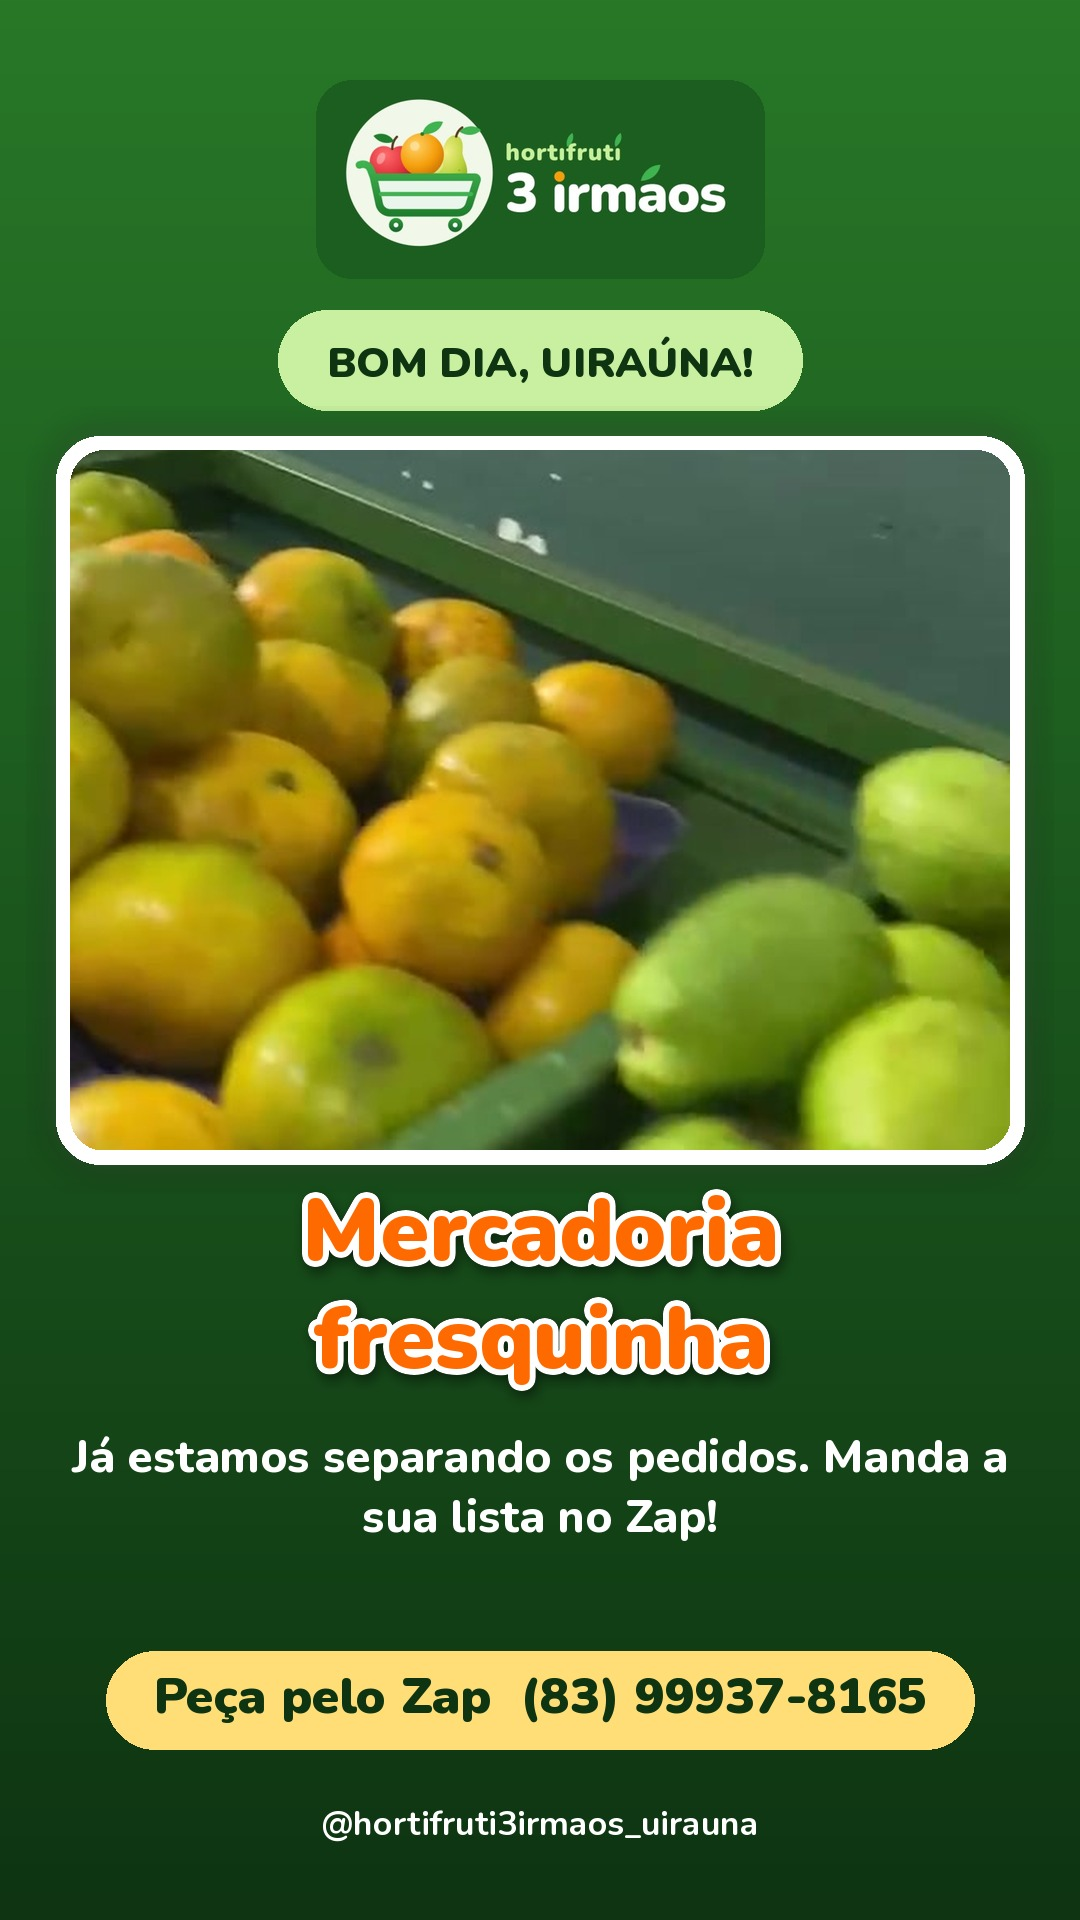
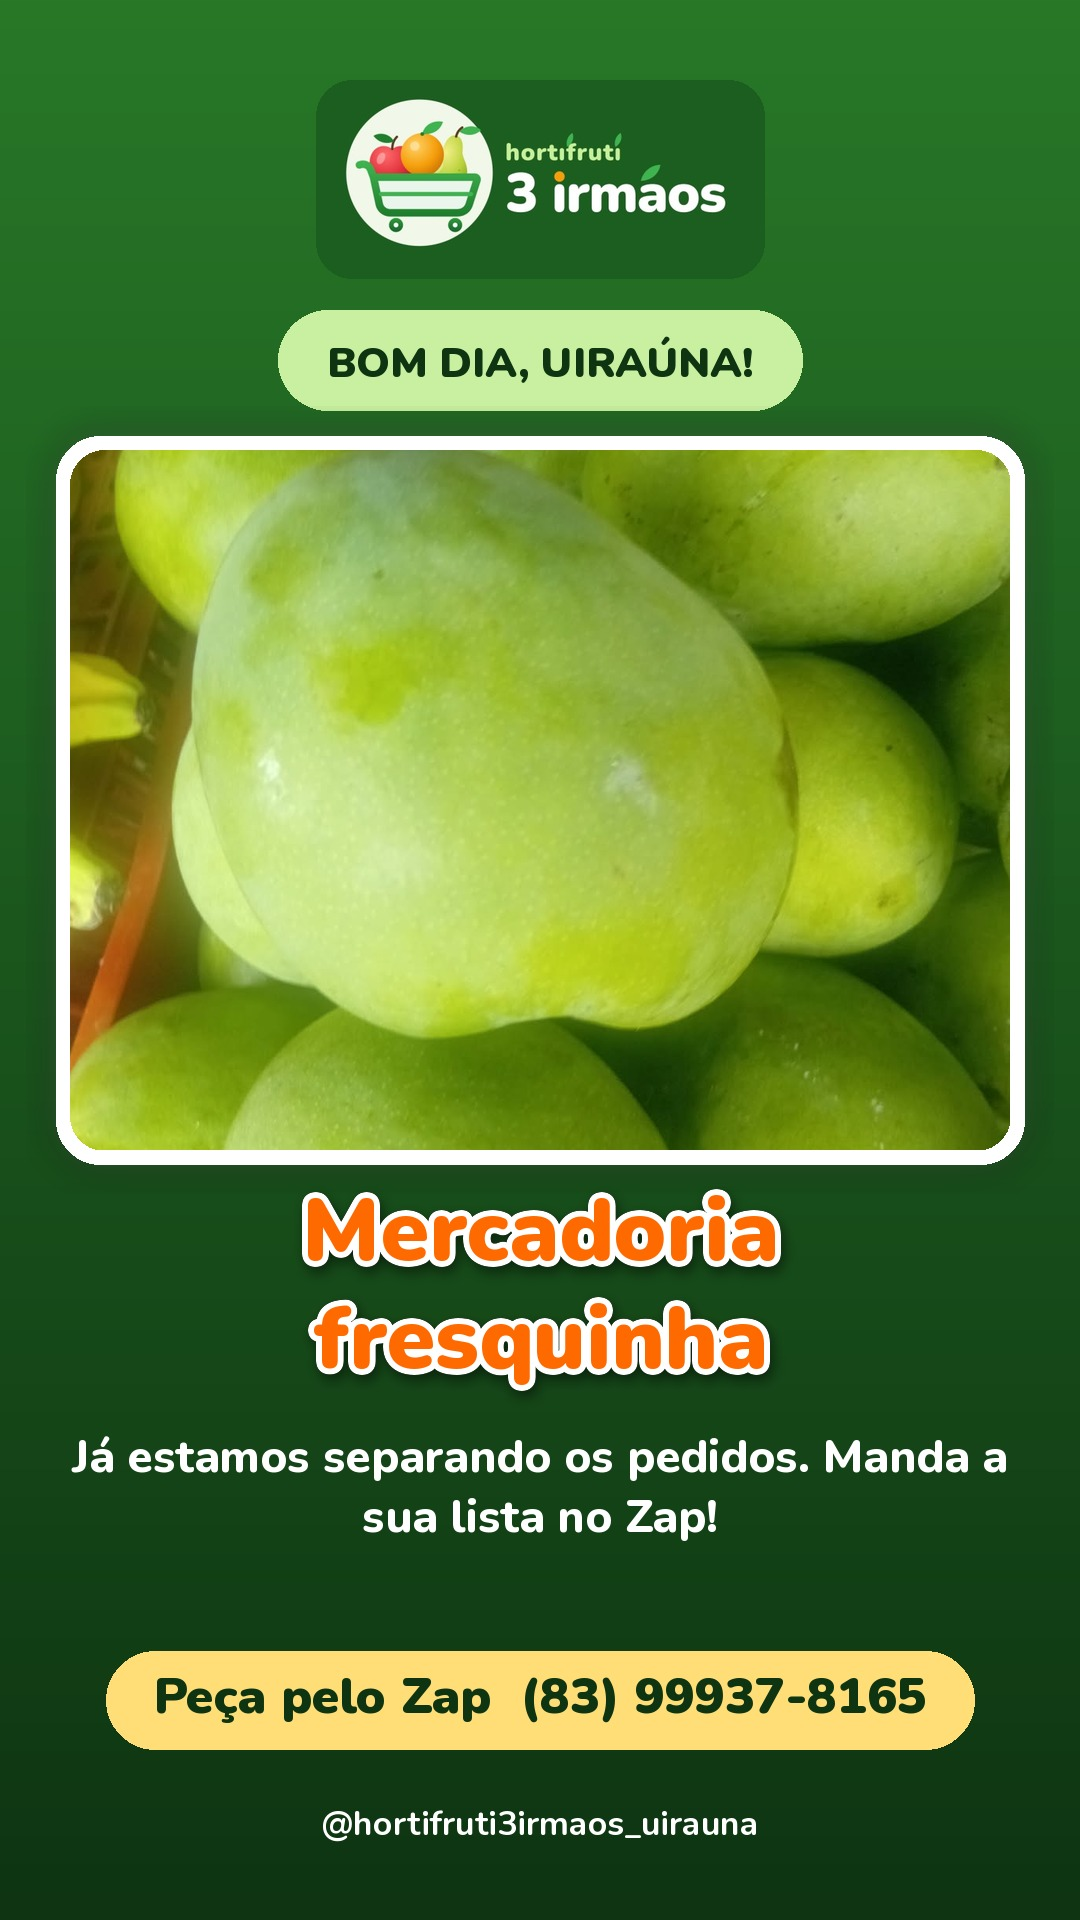
Stories só com fotos de melancia, mangas e rapadura
Demais produtos saem do rodízio até o dono fotografar; nova dica da rapadura.

Claude-Session: https://claude.ai/code/session_01LndrfCLM5yfZrSKyFyzxqV

diff --git a/reels/story_produto.py b/reels/story_produto.py
@@ -1,7 +1,7 @@
 """Stories com foto (1080x1920): foto real em destaque, etiqueta, título no estilo dos reels e o Zap.
 
 Uso: python3 reels/story_produto.py [nome ...]   (sem nome, gera todos)
-Grava stories/fotos/<nome>.jpg. As fotos vêm de reels/fotos e ofertas/fotos.
+Grava stories/fotos/<nome>.jpg. As fotos vêm de reels/fotos.
 """
 import sys
 from pathlib import Path
@@ -13,53 +13,36 @@ from editar_reel import (AMARELO, BRANCO, INSTAGRAM, VERDE, VERDE_CLARO, VERDE_E
 
 RAIZ = Path(__file__).parent.parent
 SAIDA = RAIZ / "stories" / "fotos"
-R, O = "reels/fotos/", "ofertas/fotos/"
+R = "reels/fotos/"
 
 # nome: (foto, etiqueta, título (\n quebra a linha), texto)
 STORIES = {
+    # Só fotos aprovadas pelo dono (melancia, mangas e rapadura); o resto entra quando ele fotografar.
     # bom dia
-    "bom-dia-1": (O + "caixas.jpg", "BOM DIA, UIRAÚNA!", "Mercadoria\nfresquinha",
+    "bom-dia-1": (R + "manga-coite.jpg", "BOM DIA, UIRAÚNA!", "Mercadoria\nfresquinha",
                   "Já estamos separando os pedidos. Manda a sua lista no Zap!"),
-    "bom-dia-2": (O + "tomate.jpg", "BOM DIA!", "Feira boa\ncomeça cedo",
+    "bom-dia-2": (R + "melancia-2.jpg", "BOM DIA!", "Feira boa\ncomeça cedo",
                   "Frutas, verduras e legumes escolhidos a dedo pra você."),
     "bom-dia-3": (R + "manga-colorida.jpg", "BOM DIA!", "Hoje tem\ncoisa boa",
                   "Vem conferir na loja ou peça sem sair de casa."),
-    # dicas (só as que têm foto real)
-    "dica-tomate": (O + "tomate.jpg", "DICA RÁPIDA", "Tomate\nfora da geladeira",
-                    "Deixe amadurecer em temperatura ambiente; maduro, use logo."),
+    # dicas
     "dica-manga": (R + "manga-colorida.jpg", "DICA RÁPIDA", "Manga\ndoce e no ponto",
                    "Amadureça fora da geladeira e depois guarde nela."),
-    "dica-cebola": (O + "cebola.jpg", "DICA RÁPIDA", "Cebola e batata\nseparadas",
-                    "Guarde em lugar seco, escuro e arejado, uma longe da outra."),
-    "dica-limao": (O + "limao.jpg", "DICA RÁPIDA", "Limão\ndura mais",
-                   "Guarde na geladeira dentro de um saco ou pote fechado."),
-    "dica-abacate": (O + "abacate.jpg", "DICA RÁPIDA", "Abacate\nno ponto certo",
-                     "Pra amadurecer, deixe fora da geladeira; maduro, guarde nela."),
     "dica-melancia": (R + "melancia-1.jpg", "DICA RÁPIDA", "Melancia\ncortada",
                       "Cubra bem e guarde na geladeira; consuma em poucos dias."),
-    "dica-abacaxi": (O + "abacaxi.jpg", "DICA RÁPIDA", "Abacaxi\nno ponto",
-                     "Casca amarelando e cheiro doce na base: tá pronto pra comer."),
-    "dica-melao": (O + "melao.jpg", "DICA RÁPIDA", "Melão\nmaduro",
-                   "Cheiro doce perto do cabo e casca que cede um pouquinho."),
-    "dica-laranja": (O + "laranja.jpg", "DICA RÁPIDA", "Laranja\nsuculenta",
-                     "Escolha as mais pesadas pro tamanho: têm mais suco."),
-    "dica-batata": (O + "batata.jpg", "DICA RÁPIDA", "Batata\nsem brotar",
-                    "Guarde no escuro e longe da cebola; nada de geladeira."),
+    "dica-rapadura": (R + "rapadura-gergelim.jpg", "DICA RÁPIDA", "Rapadura\nsempre boa",
+                      "Guarde em pote fechado, longe da umidade, que ela não mela."),
     # meio-dia e tarde
-    "almoco": (O + "tomate.jpg", "HORA DO ALMOÇO", "Salada\nfresquinha?",
-               "Alface, tomate, pepino e cebola separados pra você. Chama no Zap!"),
-    "zap-1": (O + "laranja.jpg", "PEÇA PELO ZAP", "Fez a lista?\nA gente separa!",
+    "zap-1": (R + "rapadura-pilha.jpg", "PEÇA PELO ZAP", "Fez a lista?\nA gente separa!",
               "Mande sua lista e receba em casa ou retire na loja."),
-    "zap-2": (O + "tangerina.jpg", "SEM FILA", "Sua feira\nsem sair de casa",
+    "zap-2": (R + "melancia-2.jpg", "SEM FILA", "Sua feira\nsem sair de casa",
               "É só chamar no WhatsApp que a gente leva até você."),
-    "zap-3": (O + "melao.jpg", "ESQUECEU ALGO?", "Faltou fruta\npro almoço?",
+    "zap-3": (R + "manga-colorida.jpg", "ESQUECEU ALGO?", "Faltou fruta\npro almoço?",
               "Chama no Zap que a gente resolve rapidinho."),
     "zap-4": (R + "manga-coite.jpg", "ENTREGA EM CASA", "A gente leva\naté você",
               "Frutas, verduras e legumes na sua porta, em Uiraúna."),
-    "fim-de-semana": (O + "abacaxi.jpg", "FIM DE SEMANA", "Já fez a feira\ndo fim de semana?",
+    "fim-de-semana": (R + "rapadura-garrafas.jpg", "FIM DE SEMANA", "Já fez a feira\ndo fim de semana?",
                       "Garanta frutas e verduras fresquinhas pro seu sábado."),
-    "endereco": (O + "corredor.jpg", "ONDE ESTAMOS", "Venha nos\nvisitar!",
-                 "Rua Francisco Euclides Fernandes, 1200 · Uiraúna - PB"),
     "familia-1": (R + "rapadura-pilha.jpg", "NEGÓCIO DE FAMÍLIA", "Escolhido\ncom carinho",
                   "Cada item passa pelas mãos da nossa família."),
     "familia-2": (R + "melancia-3.jpg", "OBRIGADO!", "Valeu pela\npreferência",

diff --git a/agenda/gerar_fila.py b/agenda/gerar_fila.py
@@ -168,8 +168,7 @@ ZAP = ["zap-1", "zap-2", "zap-4"]  # zap-3 ("faltou fruta pro almoço?") vai com
 # A partir de 29/10 os stories usam fotos reais (stories/fotos, gerados por reels/story_produto.py)
 # em vez das ilustrações (stories/banco); só entram dicas de produtos que têm foto.
 FOTOS_DESDE = date(2026, 10, 29)
-DICAS_FOTO = ["dica-tomate", "dica-abacaxi", "dica-manga", "dica-cebola", "dica-limao", "almoco", "zap-3",
-              "dica-abacate", "dica-melancia", "dica-laranja", "dica-batata", "dica-melao"]
+DICAS_FOTO = ["dica-manga", "dica-rapadura", "dica-melancia", "zap-3"]
 
 
 def story_imagem(nome, dia):
@@ -182,7 +181,9 @@ def story_imagem(nome, dia):
 
 def stories_do_dia(n, dia):
     """Os 3 stories do dia: bom dia, dica e chamada (zap / fim de semana / endereço / família)."""
-    tarde = {4: "fim-de-semana", 5: "endereco", 6: f"familia-{n // 7 % 2 + 1}"}.get(
+    # sábado: endereço (ilustrado) só até ter a foto da fachada
+    sabado = "endereco" if dia < FOTOS_DESDE else ZAP[n % len(ZAP)]
+    tarde = {4: "fim-de-semana", 5: sabado, 6: f"familia-{n // 7 % 2 + 1}"}.get(
         dia.weekday(), ZAP[n % len(ZAP)])
     dicas = DICAS_FOTO if dia >= FOTOS_DESDE else DICAS
     return [BOM_DIA[n % len(BOM_DIA)], dicas[n % len(dicas)], tarde]
